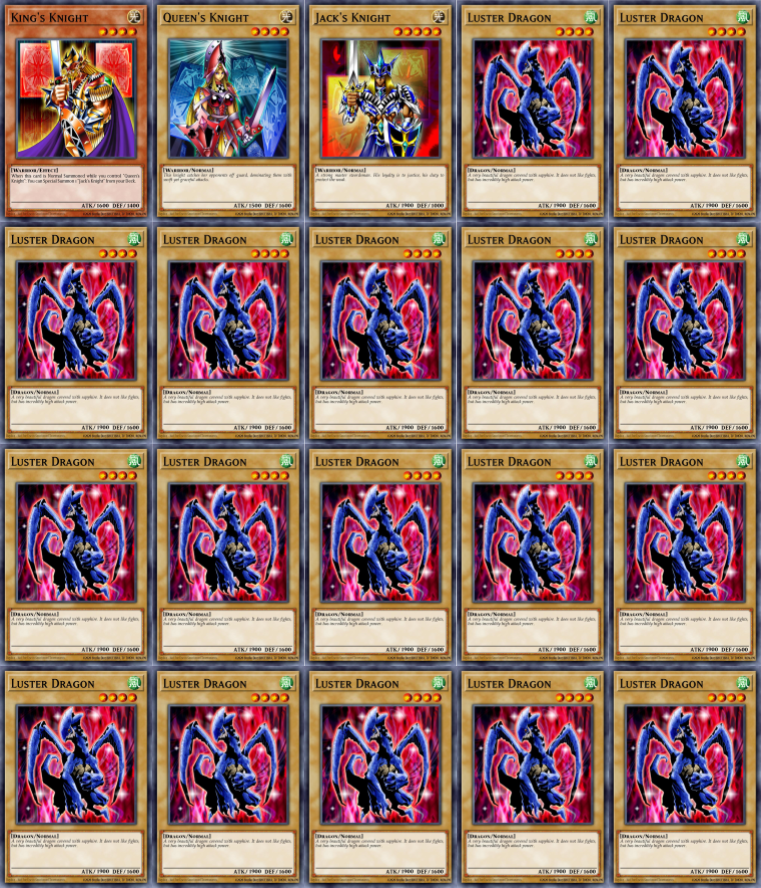
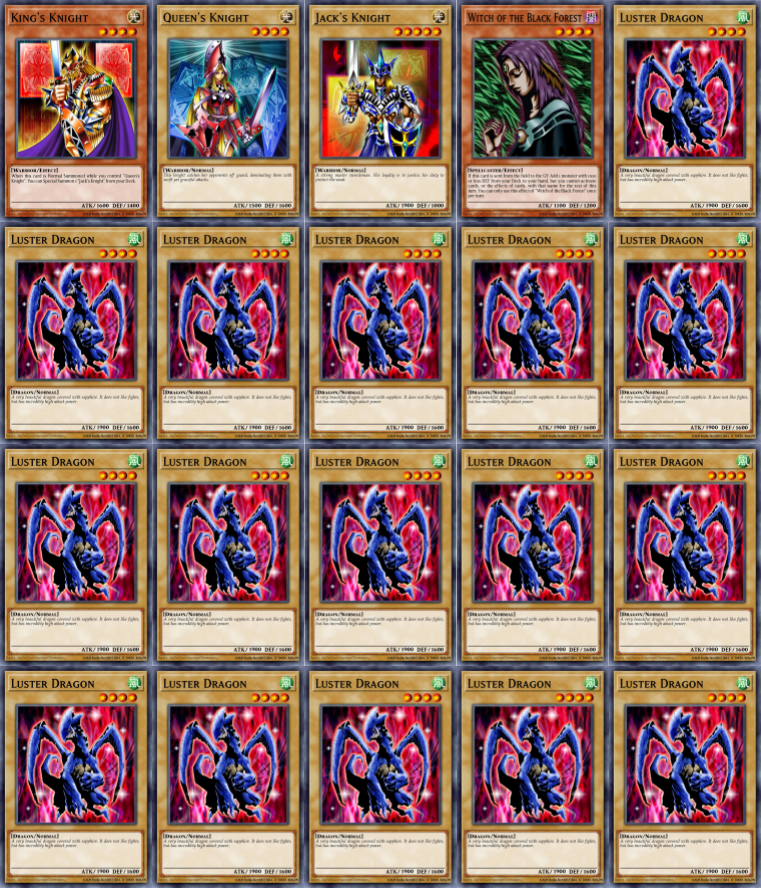
v0.5.3

Changed region(s): [[0.6045, 0.0, 0.816, 0.2432]]

diff --git a/README.md b/README.md
@@ -117,6 +117,11 @@ Retrigger each played Queen for each King or Jack held in hand.
 
 Retrigger each played Jack for each King or Queen held in hand.
 
+## Witch of the Black Forest
+**Uncommon**
+
+Create a Spell or Trap card when Blind is selected (must have room).
+
 ## Graceful Charity
 **Consumable**
 
